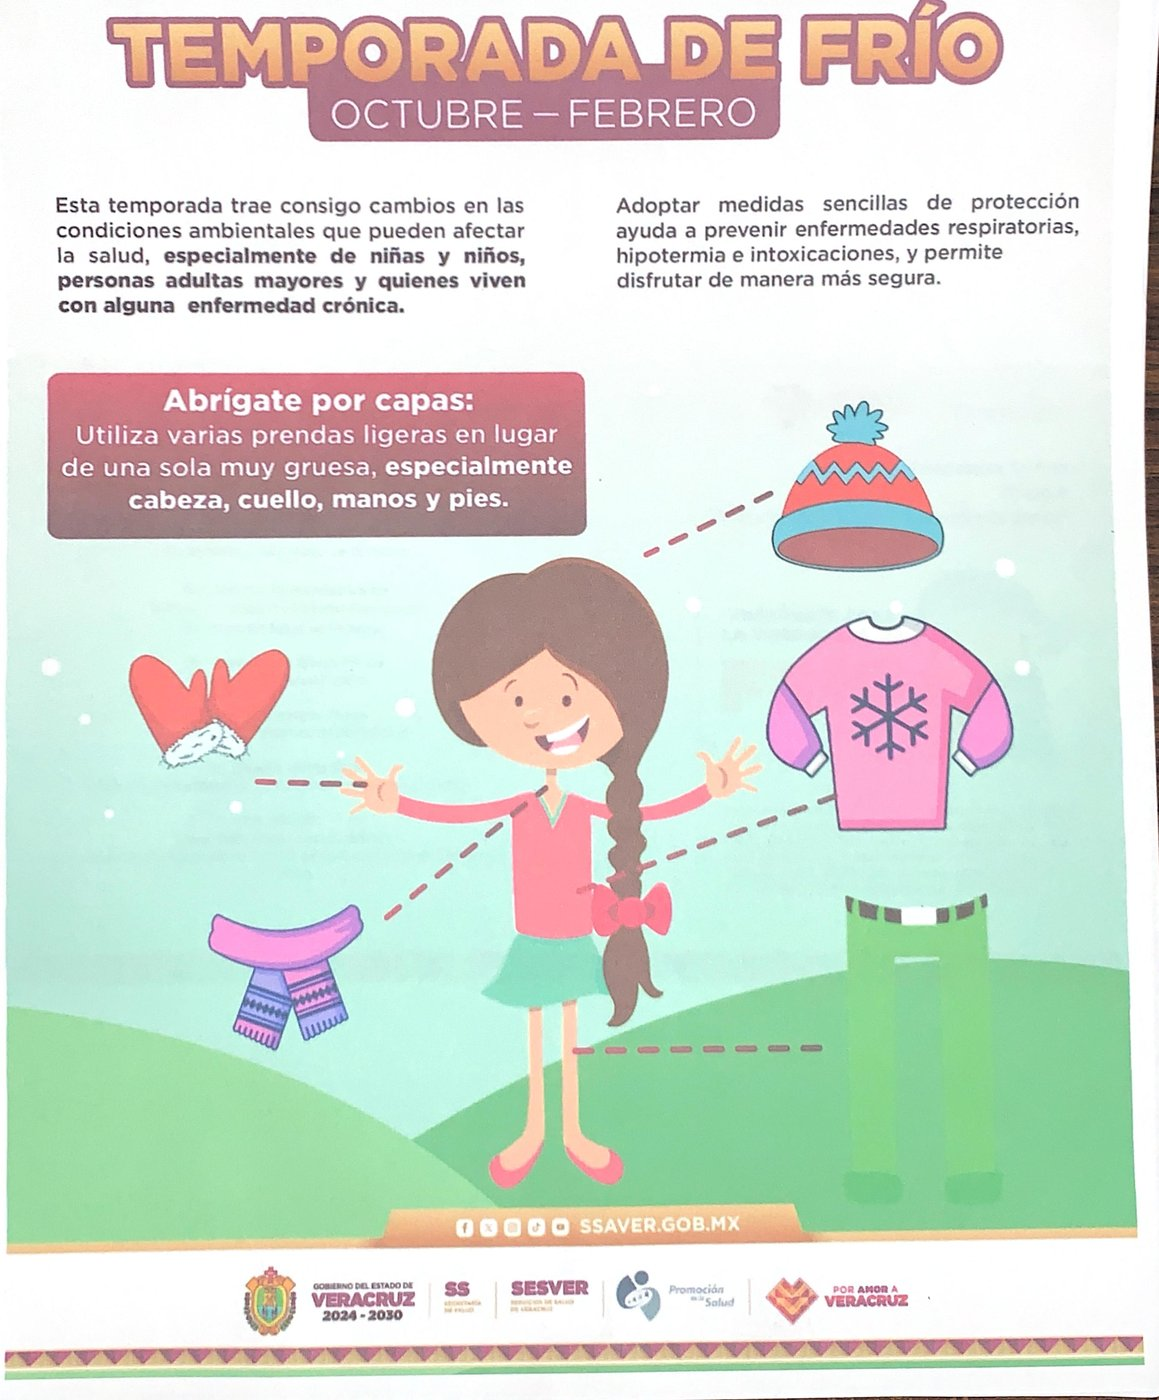
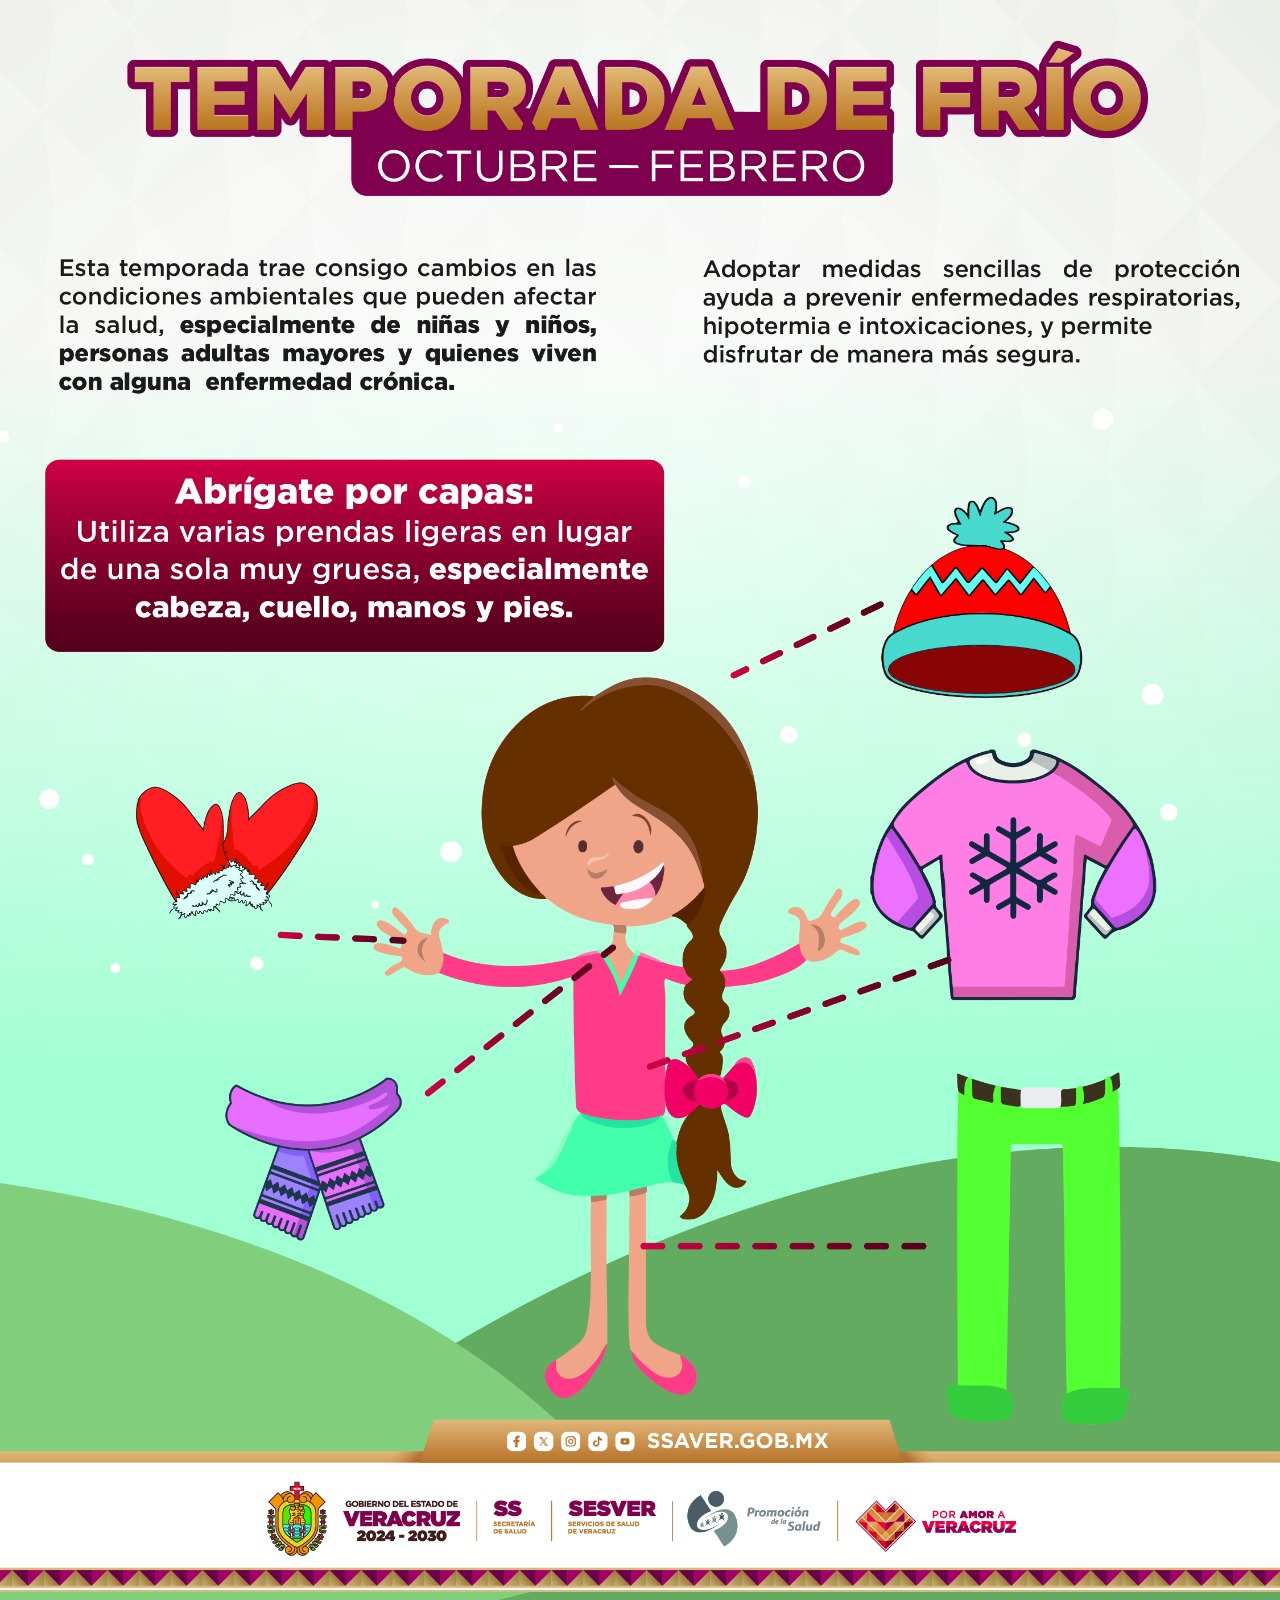
Cambia el cartel de temporada invernal por el original
El que estaba salio del PDF escaneado: era la foto de una hoja impresa, se
veia lavada y se transparentaba el reverso. Este es el archivo original de
SESVER, 1280x1600 y limpio.

Las medidas del cartel pasan a lib/data.ts en vez de ir fijas en la pagina,
para que el siguiente aviso no herede las de este.

diff --git a/lib/data.ts b/lib/data.ts
@@ -553,6 +553,8 @@ export const avisos = [
       "Recuerda prestar especial atención a niñas y niños menores de cinco años, personas adultas mayores, mujeres embarazadas y personas con enfermedades crónicas.",
     cierre: "La prevención es tarea de todas y todos. ¡En Acajete nos cuidamos todos!",
     imagen: "/images/avisos/temporada-invernal-2026-2027.jpg",
+    ancho: 1280,
+    alto: 1600,
     alt: "Cartel de la campaña Temporada de Frío, de octubre a febrero, con recomendaciones para abrigarse por capas",
     documento: { nombre: "Boletín informativo", href: "/docs/avisos/boletin-temporada-de-frio.pdf" },
   },

diff --git a/app/page.tsx b/app/page.tsx
@@ -93,8 +93,8 @@ export default function Home() {
                   <Image
                     src={aviso.imagen}
                     alt={aviso.alt}
-                    width={1159}
-                    height={1400}
+                    width={aviso.ancho}
+                    height={aviso.alto}
                     className="w-full h-auto"
                     sizes="(max-width: 1024px) 100vw, 40vw"
                   />
